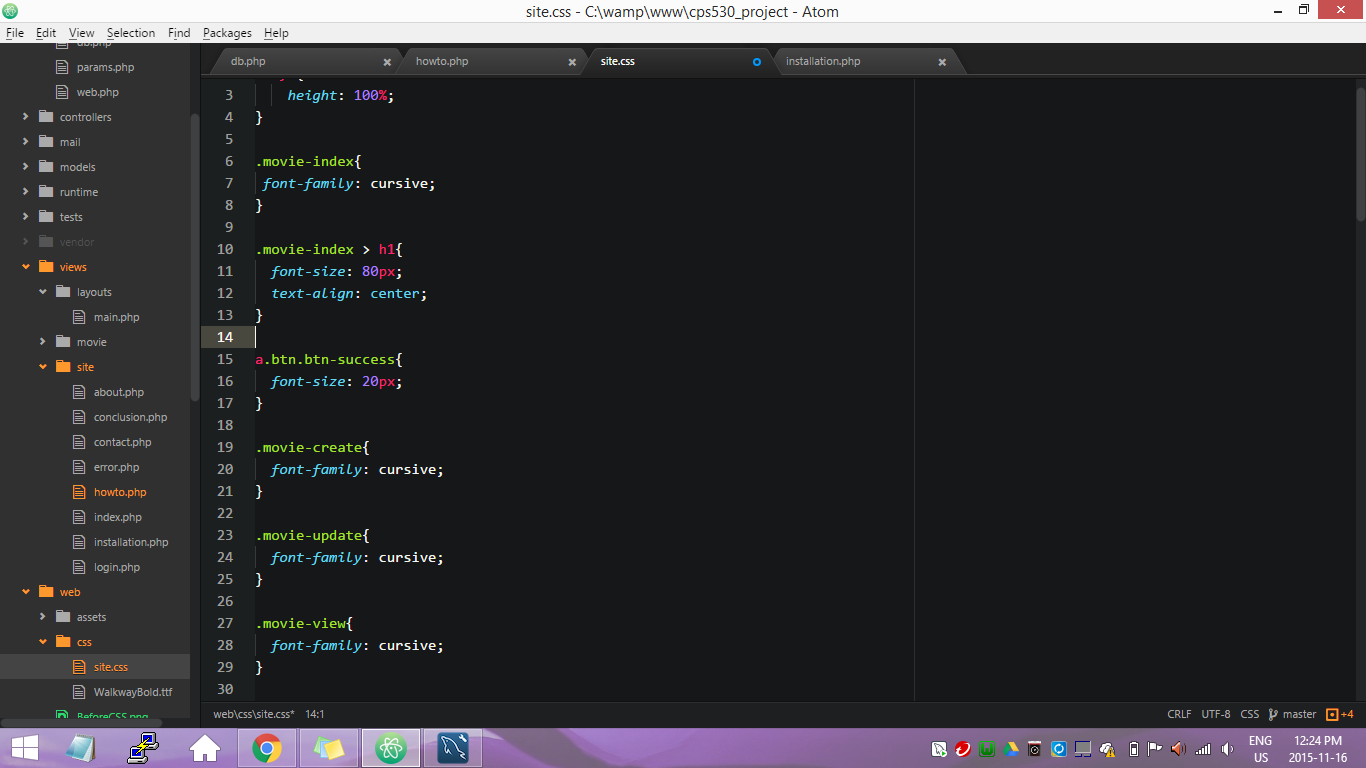
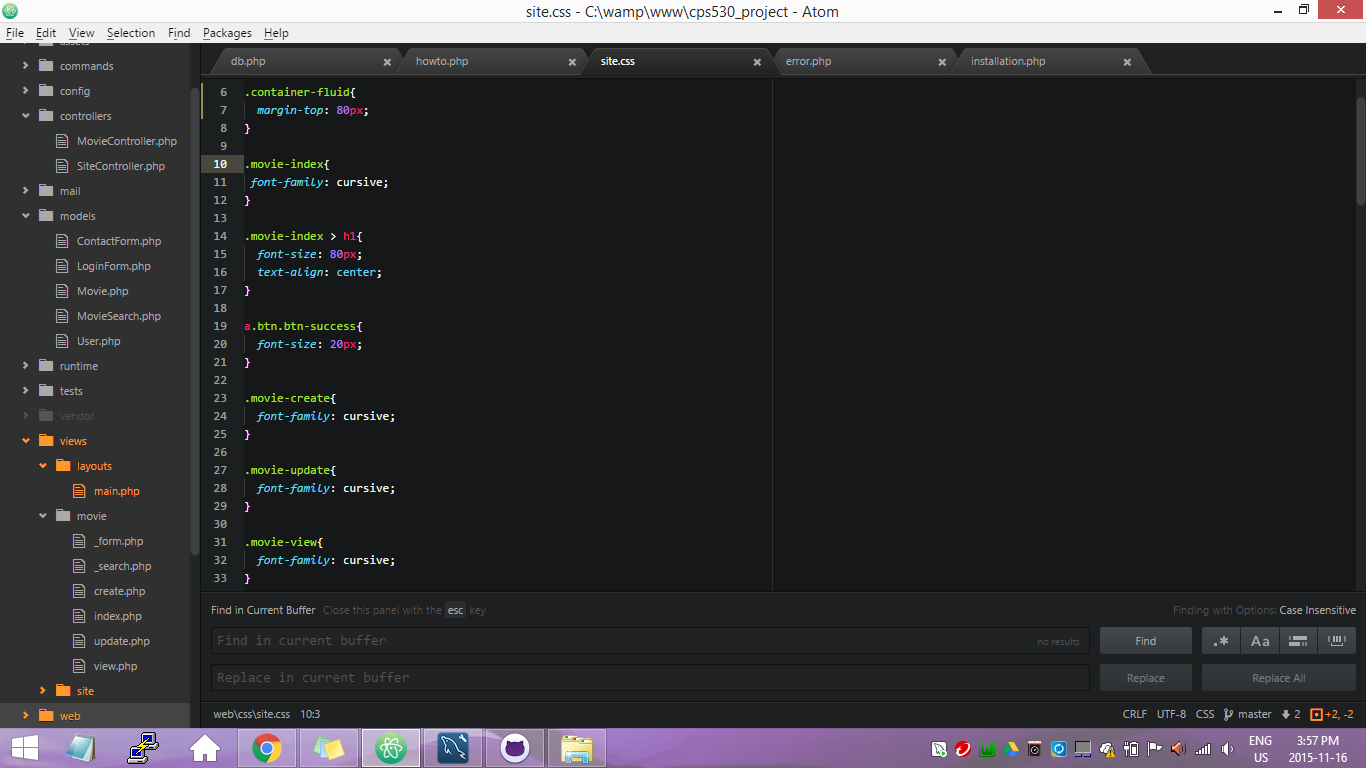
New changes

diff --git a/web/css/site.css b/web/css/site.css
@@ -3,8 +3,13 @@ body {
     height: 100%;
 }
 
-#myCarousel{
+td > img{
+  width:200px;
+  height:300px;
+}
 
+.container-fluid{
+  margin-top: 80px;
 }
 
 .movie-index{

diff --git a/controllers/MovieController.php b/controllers/MovieController.php
@@ -8,6 +8,7 @@ use app\models\MovieSearch;
 use yii\web\Controller;
 use yii\web\NotFoundHttpException;
 use yii\filters\VerbFilter;
+use yii\web\UploadedFile;
 
 /**
  * MovieController implements the CRUD actions for Movie model.
@@ -49,8 +50,7 @@ class MovieController extends Controller
     public function actionView($id)
     {
         return $this->render('view', [
-            'model' => $this->findModel($id),
-        ]);
+            'model' => $this->findModel($id),]);
     }
 
     /**
@@ -62,7 +62,13 @@ class MovieController extends Controller
     {
         $model = new Movie();
 
-        if ($model->load(Yii::$app->request->post()) && $model->save()) {
+        if ($model->load(Yii::$app->request->post()))
+        {
+            $imageName = $model->movie_name;
+            $model->file = UploadedFile::getInstance($model,'file');
+            $model->file->saveAs('uploads/'.$imageName.'.'.$model->file->extension);
+            $model->movie_logo='uploads/'.$imageName.'.'.$model->file->extension;
+            $model->save();
             return $this->redirect(['view', 'id' => $model->movie_name]);
         } else {
             return $this->render('create', [
@@ -81,7 +87,13 @@ class MovieController extends Controller
     {
         $model = $this->findModel($id);
 
-        if ($model->load(Yii::$app->request->post()) && $model->save()) {
+        if ($model->load(Yii::$app->request->post())) {
+            $imageName = $model->movie_name;
+            $model->file = UploadedFile::getInstance($model,'file');
+            $model->file->saveAs('uploads/'.$imageName.'.'.$model->file->extension);
+            $model->movie_logo='uploads/'.$imageName.'.'.$model->file->extension;
+
+            $model->save();
             return $this->redirect(['view', 'id' => $model->movie_name]);
         } else {
             return $this->render('update', [

diff --git a/views/site/howto.php b/views/site/howto.php
@@ -54,12 +54,31 @@ $this->params['breadcrumbs'][] = $this->title;
     <span class="sr-only">Next</span>
   </a>
 </div>
+
+  <nav class ="navbar narbar-default">
+    <div class ="container-fluid">
+      <div class ="navbar-header">
+        <h1>Tutorial</h1>
+      <ul class="nav navbar-nav">
+        <li class="active"><a href="#">Home</a></li>
+          <li><a href="#row_create">Create Database</a></li>
+          <li><a href="#row_generator">Yii Generator</a></li>
+          <li><a href="#row_css">CSS</a></li>
+      </ul>
+      </div>
+    </div>
+  </nav>
 <div class="body-content">
-  <div class="row">
+  <div class="row" id="row_create">
+  <br><br>
   <h2> Create a database </h2>
   <img src="Database.png" alt="DbCreate" height="500" width="900" />
   <h2> Connection Set-up </h2>
   <img src="Connection_Setup.png" alt="DbConnection" height="500" width="900"/>
+  </div>
+
+  <div class="row" id="row_generator">
+  <br><br>
   <h2> Yii Generators </h2>
   <img src="Database_Gii_1.png" alt="DbGii_1" height="500" width="900"/>
   <h2> Model generator for database </h2>
@@ -70,10 +89,11 @@ $this->params['breadcrumbs'][] = $this->title;
   <img src="BeforeCSS.png" alt="Database" height="500" width="900"/>
   </div>
 
-  <div class="row">
+  <div class="row" id="row_css">
+  <br><br>
   <h2> Changing the CSS code</h2>
   <img src="CSS_1.png" alt="CSS_1" height="500" width="900"/>
-  <a class="btn btn-primary" href="http://localhost/cps530_project/web/index.php?r=movie/index">Webpage</a>
   </div>
-
+  <br><br>
+  <a class="btn btn-primary" href="http://localhost/cps530_project/web/index.php?r=movie/index">Webpage</a>
 </div>

diff --git a/models/Movie.php b/models/Movie.php
@@ -8,6 +8,7 @@ use Yii;
  * This is the model class for table "Movie".
  *
  * @property string $movie_name
+ * @property string $movie_logo
  * @property string $movie_runningtime
  * @property integer $movie_year
  * @property string $movie_director
@@ -19,6 +20,7 @@ class Movie extends \yii\db\ActiveRecord
     /**
      * @inheritdoc
      */
+     public $file;
     public static function tableName()
     {
         return 'Movie';
@@ -33,8 +35,9 @@ class Movie extends \yii\db\ActiveRecord
             [['movie_name', 'movie_runningtime', 'movie_year', 'movie_director', 'movie_genre'], 'required'],
             [['movie_year'], 'integer'],
             [['movie_name', 'movie_director', 'movie_genre'], 'string', 'max' => 50],
+            [['file'],'file'],
             [['movie_runningtime'], 'string', 'max' => 10],
-            [['movie_actors'], 'string', 'max' => 100]
+            [['movie_actors', 'movie_logo'], 'string', 'max' => 100]
         ];
     }
 
@@ -45,6 +48,7 @@ class Movie extends \yii\db\ActiveRecord
     {
         return [
             'movie_name' => 'Movie Name',
+            'file' => 'Movie Logo',
             'movie_runningtime' => 'Movie Runningtime',
             'movie_year' => 'Movie Year',
             'movie_director' => 'Movie Director',

diff --git a/models/MovieSearch.php b/models/MovieSearch.php
@@ -18,7 +18,7 @@ class MovieSearch extends Movie
     public function rules()
     {
         return [
-            [['movie_name', 'movie_runningtime', 'movie_director', 'movie_actors', 'movie_genre'], 'safe'],
+            [['movie_name', 'movie_logo', 'movie_runningtime', 'movie_director', 'movie_actors', 'movie_genre'], 'safe'],
             [['movie_year'], 'integer'],
         ];
     }
@@ -60,6 +60,7 @@ class MovieSearch extends Movie
         ]);
 
         $query->andFilterWhere(['like', 'movie_name', $this->movie_name])
+            ->andFilterWhere(['like', 'movie_logo', $this->movie_logo])
             ->andFilterWhere(['like', 'movie_runningtime', $this->movie_runningtime])
             ->andFilterWhere(['like', 'movie_director', $this->movie_director])
             ->andFilterWhere(['like', 'movie_actors', $this->movie_actors])

diff --git a/views/movie/_form.php b/views/movie/_form.php
@@ -10,7 +10,7 @@ use yii\widgets\ActiveForm;
 
 <div class="movie-form">
 
-    <?php $form = ActiveForm::begin(); ?>
+    <?php $form = ActiveForm::begin(['options' => ['enctype' => 'multipart/form-data']]); ?>
 
     <?= $form->field($model, 'movie_name')->textInput(['maxlength' => true]) ?>
 
@@ -23,6 +23,8 @@ use yii\widgets\ActiveForm;
     <?= $form->field($model, 'movie_actors')->textInput(['maxlength' => true]) ?>
 
     <?= $form->field($model, 'movie_genre')->textInput(['maxlength' => true]) ?>
+
+    <?= $form->field($model, 'file')->fileInput(); ?>
 
     <div class="form-group">
         <?= Html::submitButton($model->isNewRecord ? 'Create' : 'Update', ['class' => $model->isNewRecord ? 'btn btn-success' : 'btn btn-primary']) ?>

diff --git a/views/movie/_search.php b/views/movie/_search.php
@@ -17,6 +17,8 @@ use yii\widgets\ActiveForm;
 
     <?= $form->field($model, 'movie_name') ?>
 
+    <?= $form->field($model, 'movie_logo') ?>
+
     <?= $form->field($model, 'movie_runningtime') ?>
 
     <?= $form->field($model, 'movie_year') ?>
@@ -25,7 +27,7 @@ use yii\widgets\ActiveForm;
 
     <?= $form->field($model, 'movie_actors') ?>
 
-    <?php // echo $form->field($model, 'movie_genre') ?>
+    <?= $form->field($model, 'movie_genre') ?>
 
     <div class="form-group">
         <?= Html::submitButton('Search', ['class' => 'btn btn-primary']) ?>

diff --git a/views/movie/index.php b/views/movie/index.php
@@ -24,13 +24,13 @@ $this->params['breadcrumbs'][] = $this->title;
         'filterModel' => $searchModel,
         'columns' => [
             ['class' => 'yii\grid\SerialColumn'],
-
             'movie_name',
+            'movie_logo:image',
             'movie_runningtime',
             'movie_year',
             'movie_director',
             'movie_actors',
-            // 'movie_genre',
+            'movie_genre',
 
             ['class' => 'yii\grid\ActionColumn'],
         ],

diff --git a/views/layouts/main.php b/views/layouts/main.php
@@ -55,6 +55,7 @@ AppAsset::register($this);
             ['label' => 'Home', 'url' => ['/site/index']],
             ['label' => 'Installation', 'url' => ['/site/installation']],
             ['label' => 'How-to', 'url' => ['/site/howto']],
+            ['label' => 'Actual page', 'url'=>['/movie/index']],
             ['label' => 'Conclusion', 'url' => ['/site/conclusion']],
             ['label' => 'About us', 'url' => ['/site/about']],
             

diff --git a/views/movie/view.php b/views/movie/view.php
@@ -29,12 +29,14 @@ $this->params['breadcrumbs'][] = $this->title;
         'model' => $model,
         'attributes' => [
             'movie_name',
+            'movie_logo:image',
             'movie_runningtime',
             'movie_year',
             'movie_director',
             'movie_actors',
             'movie_genre',
         ],
+
     ]) ?>
 
 </div>
